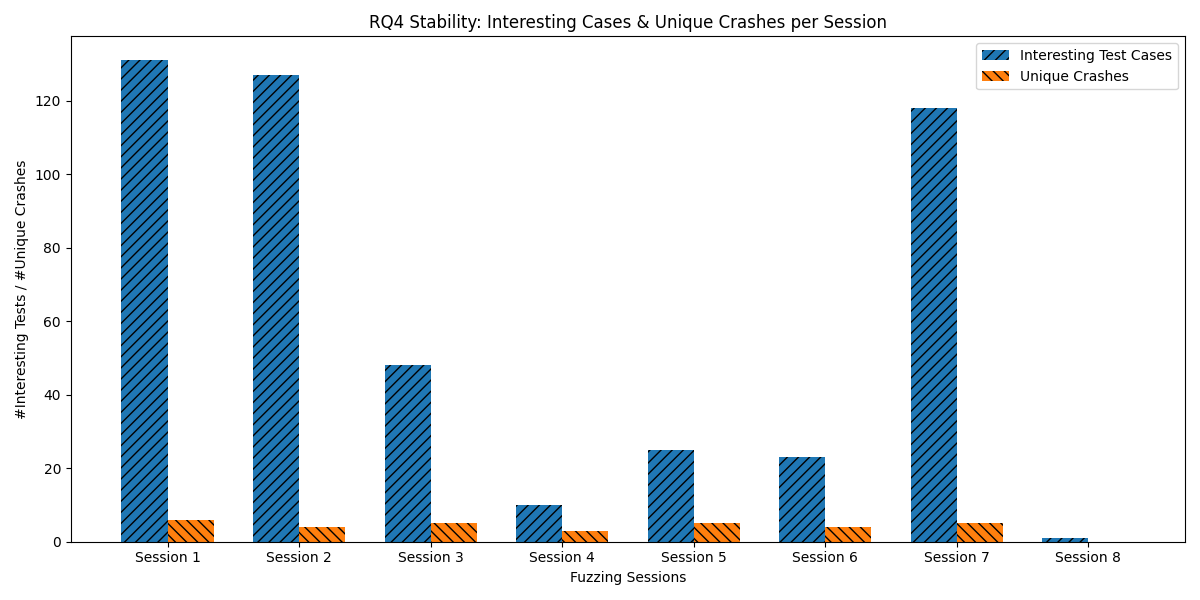
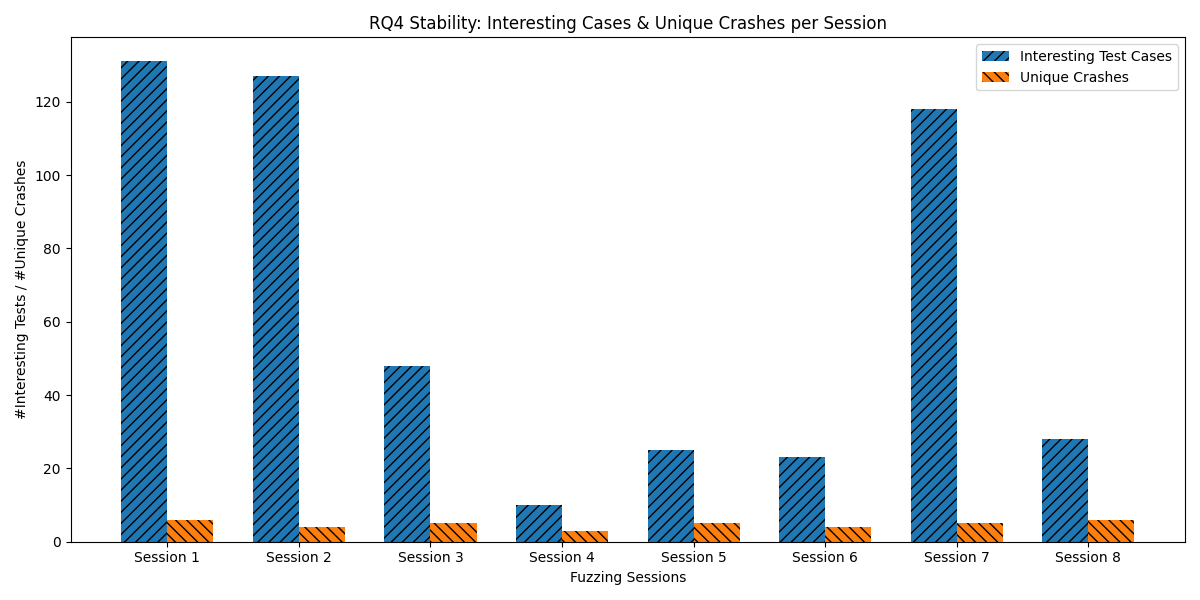
changed json file + added PoC code

diff --git a/error_reproduction.py b/error_reproduction.py
@@ -1,0 +1,103 @@
+#!/usr/bin/env python3
+import sys
+import asyncio
+from BLEClient import BLEClient
+from UserInterface import ShowUserInterface
+
+DEVICE_NAME = "Smart Lock [Group 3]"
+# Commands
+AUTH = [0x00]  # 7 Bytes
+PASSCODE = [0x01, 0x02, 0x03, 0x04, 0x05, 0x06]  # Correct PASSCODE
+WRONG_PASSCODE = [1, 2, 3, 4, 5, 6, 188]
+
+async def print_new_logs(ble, idx):
+    """Print only new logs since last index and return new last index"""
+    await asyncio.sleep(0.25)  # Allow time for response
+    logs = ble.read_logs()
+    
+    # Print only new logs since last time
+    for line in logs[idx:]:
+        print(line)
+    
+    # Return new last index
+    return len(logs)
+
+async def run_test_case(test_name, auth_input, commands):
+    """Generic function to run a test case"""
+    ble = BLEClient()
+    ble.init_logs()
+    last_log_index = 0
+
+    print(f'[1] Connecting to "{DEVICE_NAME}"...')
+    await ble.connect(DEVICE_NAME)
+    last_log_index = await print_new_logs(ble, last_log_index)
+
+    print(f"\n[2] Authenticating for {test_name}...")
+    res = await ble.write_command(AUTH + auth_input)
+    last_log_index = await print_new_logs(ble, last_log_index)
+
+    if auth_input == PASSCODE:
+        print("[!] Authenticated!!!")
+    else:
+        print("[!] Used alternative authentication input")
+    
+    await asyncio.sleep(2)
+
+    try:
+        for i, cmd in enumerate(commands, 3):
+            print(f"\n[{i}] Sending command: {cmd}")
+            res = await ble.write_command(cmd)
+            last_log_index = await print_new_logs(ble, last_log_index)
+            await asyncio.sleep(1)
+    except Exception as e:
+        print(f"Exception occurred: {e}")
+        last_log_index = await print_new_logs(ble, last_log_index)
+
+    print(f"\n[Final] Logs from Smart Lock (Serial Port):\n{'-'*50}")
+    lines = ble.read_logs()
+    for line in lines:
+        print(line)
+
+    print("\n[Disconnecting...]\n")
+    await ble.disconnect()
+
+# Test case for 0x018374
+async def error_0x018374():
+    print("\n=== Running test for error code 0x018374 ===")
+    await run_test_case("0x018374", PASSCODE, [[0]])
+
+# Test case for 0x398472
+async def error_0x398472():
+    print("\n=== Running test for error code 0x398472 ===")
+    await run_test_case("0x398472", PASSCODE, [[1, 2], [1, 193, 113, 38, 195]])
+
+# Test case for blue screen (0x******)
+async def error_blue_screen():
+    print("\n=== Running test for blue screen error ===")
+    await run_test_case("blue screen", WRONG_PASSCODE, [])
+
+# Test case for 0xtttttt
+async def error_0xtttttt():
+    print("\n=== Running test for error code 0xtttttt ===")
+    await run_test_case("0xtttttt", PASSCODE, [[255, 255, 255, 255, 0, 8]])
+
+# Test case for OSError: [WinError -2147023673] The operation was canceled by the user
+async def error_oserror():
+    print("\n=== Running test for OSError ===")
+    await run_test_case("OSError", PASSCODE, [[2,47,162,72,162,72,65], [0, 243, 32, 1, 32, 146, 133, 130, 117]])
+
+# Test case for 0x298173
+async def error_0x298173():
+    print("\n=== Running test for error code 0x298173 ===")
+    await run_test_case("0x298173", PASSCODE, [[]])
+
+try:
+    # Run a specific test:
+    # asyncio.run(error_0x018374()) 
+    # asyncio.run(error_0x398472()) 
+    # asyncio.run(error_blue_screen()) 
+    # asyncio.run(error_oserror()) 
+    # asyncio.run(error_0xtttttt()) 
+    asyncio.run(error_0x298173()) 
+except KeyboardInterrupt:
+    print("\nProgram Exited by User!")

diff --git a/final_fuzzer_Smartlock.py b/final_fuzzer_Smartlock.py
@@ -870,7 +870,7 @@ if __name__ == "__main__":
     try:
         random.seed(None)                                   # Initialize random seed
         # Choose which fuzzer to run
-        asyncio.run(run_random_fuzzer(5, 5, True))          # Random fuzzing
-        # asyncio.run(run_mutation_fuzzer(5, 5, True))       # Mutation-based fuzzing
+        # asyncio.run(run_random_fuzzer(5, 5, True))          # Random fuzzing
+        asyncio.run(run_mutation_fuzzer(5, 5, True))       # Mutation-based fuzzing
     except KeyboardInterrupt:
         print("\nProgram Exited by User!")

diff --git a/scripting/scripting4.py b/scripting/scripting4.py
@@ -29,6 +29,8 @@ for i in range(1, num_sessions + 1):
     # Count interesting test cases
     interesting_count = len(data)
 
+    print(i, ": ", interesting_count)
+
     # Count unique crash types based on error message content
     crash_set = set()
     for item in data:
